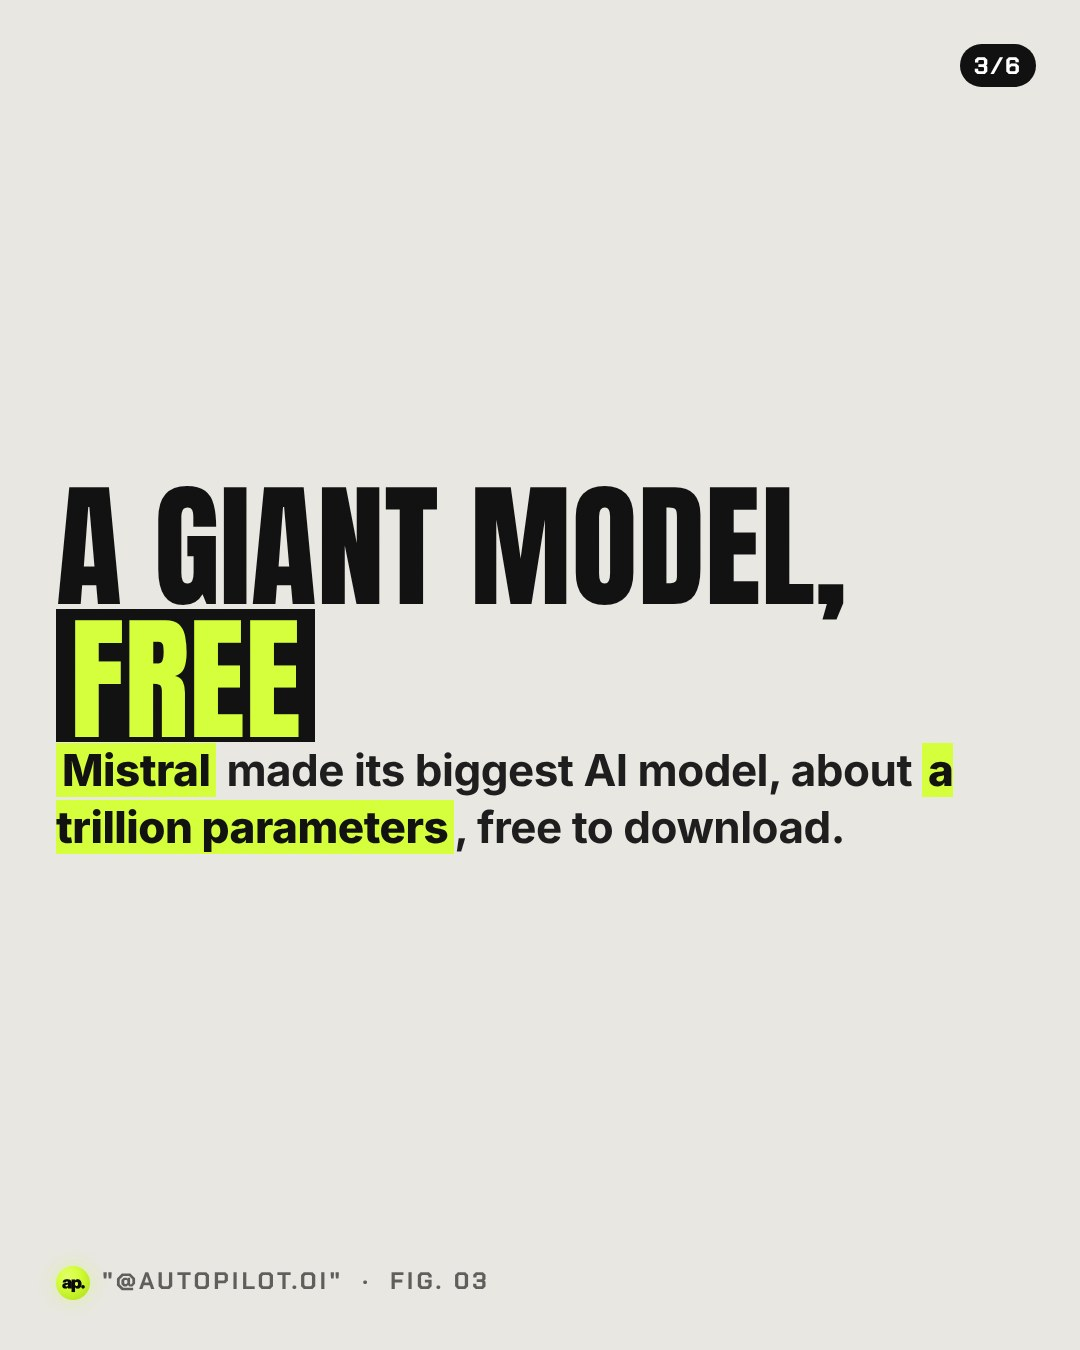
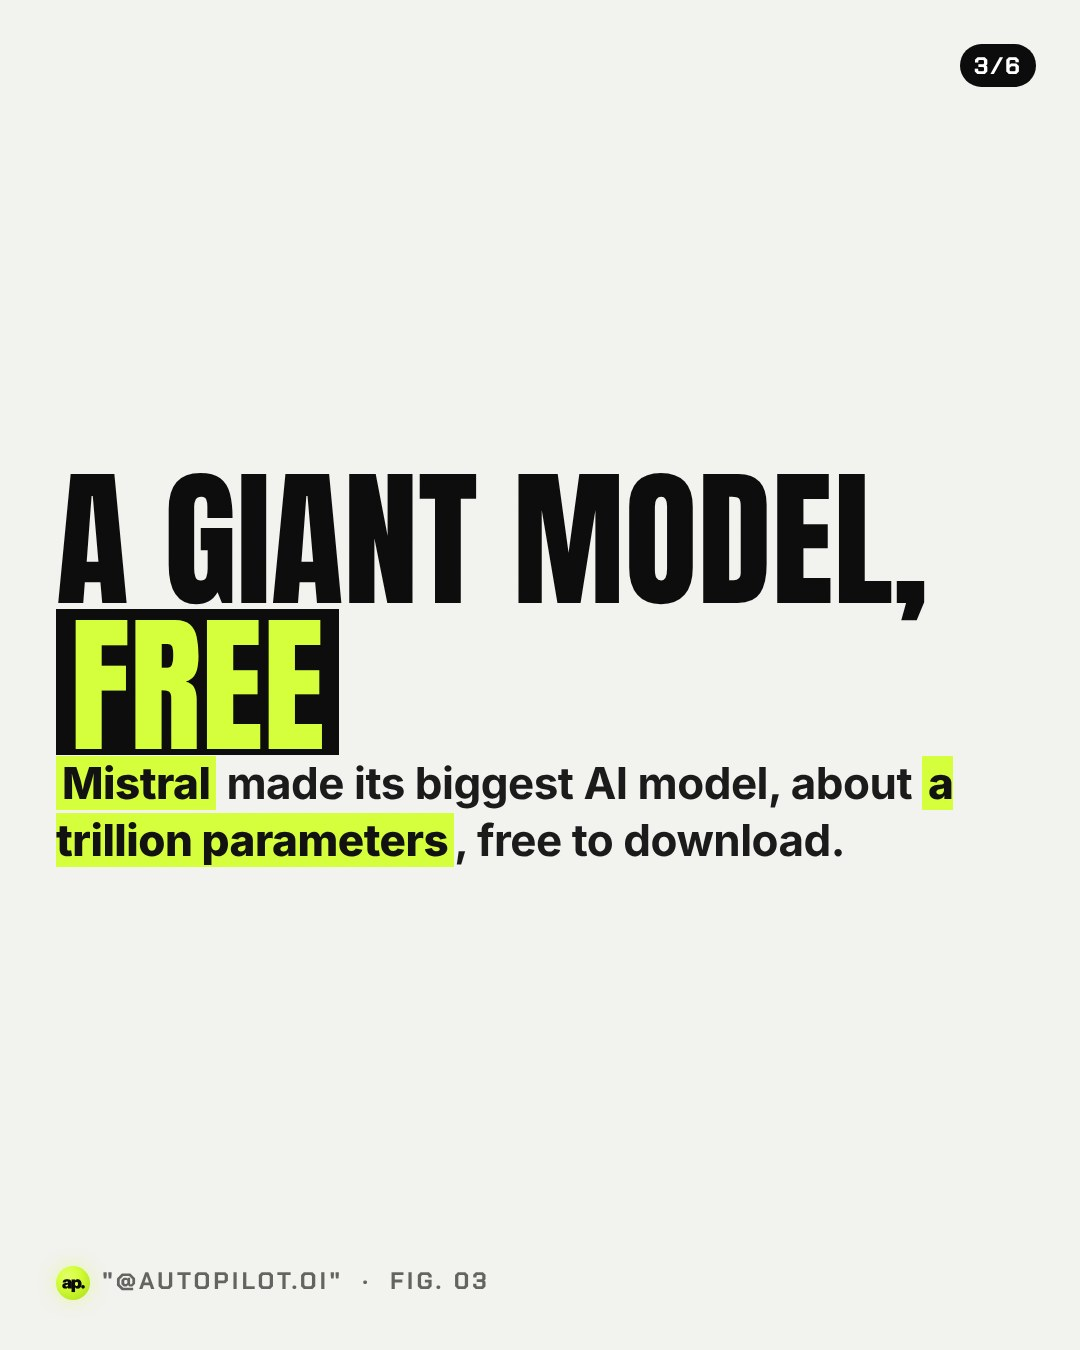
Carousels: free compositions (each cover its own design: lime poster, terminal, stamped card, contents bands) and per post inside themes (dark, light, lime)
Claude-Session: https://claude.ai/code/session_01LKQNuEnmvMjGabLVVX6Xfj

Changed region(s): [[0.0306, 0.3422, 0.8861, 0.6533]]

diff --git a/tools/carousel/style.css b/tools/carousel/style.css
@@ -144,3 +144,44 @@
 .grain{opacity:.1}
 .paper{color:#262626}.paper .mast,.paper .bar2{opacity:.7}.big1{color:#202020!important}.cols{opacity:.6}
 .paper.light .big1{color:#cfcec7!important}.paper.light .cols{opacity:.45}.paper.light .mast{opacity:.5}
+
+/* ---------- free compositions (cover_html): each post designs its own cover ---------- */
+.fx{position:absolute}
+.A{font-family:A;text-transform:uppercase;line-height:.88}
+.Ii{font-family:I;font-weight:800;letter-spacing:-.5px}
+.Cc{font-family:C;font-weight:700;letter-spacing:3px;text-transform:uppercase}
+.Mm{font-family:M}
+.bg-lime{background:radial-gradient(120% 90% at 30% 20%,#F0FF9A 0,#D4FF3A 45%,#C2F21F 100%)!important;color:#0c0c0c}
+.bg-white{background:#f2f2ee!important;color:#0c0c0c}
+.bg-black{background:#0a0a0a!important;color:#f4f4f4}
+.chip{display:inline-block;background:#0c0c0c;color:#D4FF3A;font:700 24px C;letter-spacing:4px;padding:10px 18px}
+.chip.l{background:#D4FF3A;color:#0c0c0c;text-shadow:none}
+.term{background:#0f120c;border:2px solid #2a3320;border-radius:22px;box-shadow:0 40px 80px #000a,0 0 70px #D4FF3A22;overflow:hidden}
+.term .bar{height:54px;background:#161b11;display:flex;align-items:center;gap:12px;padding:0 22px}
+.term .bar i{width:16px;height:16px;border-radius:50%;background:#333}
+.term .bar i:nth-child(3){background:#D4FF3A}
+.term pre{font:400 30px/1.55 M;color:#c9d6bd;padding:26px 30px;margin:0;white-space:pre-wrap}
+.term pre b{color:#D4FF3A;font-weight:400}.term pre u{color:#ff5a4f;text-decoration:none}
+.bcard{width:640px;height:400px;border-radius:30px;background:linear-gradient(135deg,#1b1b1b,#050505);box-shadow:0 40px 80px #0005;color:#eee;padding:44px 46px}
+.bcard .chipx{width:86px;height:64px;border-radius:12px;background:linear-gradient(135deg,#e9ff9a,#b9e81c)}
+.bcard .num{font:400 44px/1 M;letter-spacing:4px;margin-top:62px}
+.bcard .nm{font:700 22px C;letter-spacing:4px;margin-top:22px;color:#aaa}
+.stampL{border:12px solid #D4FF3A;color:#D4FF3A;font:400 150px/1 A;padding:10px 34px 0;background:#0c0c0cdd;box-shadow:0 0 60px #D4FF3A66}
+.band{position:absolute;left:0;right:0;display:flex;align-items:center;gap:34px;padding:0 54px}
+.band .n{font:400 150px/1 A;color:#D4FF3A}
+.band .h{font:400 70px/.92 A;text-transform:uppercase}
+.band .d{font:700 26px/1.3 I;color:#bbb;margin-top:10px;letter-spacing:-.3px}
+.rule{height:3px;background:currentColor;opacity:.9}
+/* per post inner themes */
+.th-lime .s:not(#s1){background:radial-gradient(120% 90% at 30% 20%,#F0FF9A 0,#D4FF3A 45%,#C2F21F 100%);color:#0c0c0c}
+.th-lime .s:not(#s1) .b{color:#111}.th-lime .s:not(#s1) .b b{background:#0c0c0c;color:#D4FF3A;padding:0 6px}
+.th-lime .s:not(#s1) .t .l{background:#0c0c0c;color:#D4FF3A;padding:8px 14px 0;display:inline-block;line-height:.92;text-shadow:none}
+.th-lime .s:not(#s1) .side,.th-lime .s:not(#s1) .shade{display:none}
+.th-lime .s:not(#s1) .handle{color:#0009}.th-lime .s:not(#s1) .pg{background:#0c0c0c;color:#D4FF3A}
+.th-light .s:not(#s1){background:#f2f2ee;color:#0c0c0c}
+.th-light .s:not(#s1) .b{color:#1a1a1a}.th-light .s:not(#s1) .b b{background:#D4FF3A;color:#111;padding:0 6px}
+.th-light .s:not(#s1) .t .l{background:#0c0c0c;color:#D4FF3A;padding:8px 14px 0;display:inline-block;line-height:.92;text-shadow:none}
+.th-light .s:not(#s1) .side,.th-light .s:not(#s1) .shade{display:none}
+.th-light .s:not(#s1) .handle{color:#0009}.th-light .s:not(#s1) .pg{background:#0c0c0c;color:#fff}
+.th-light .s:not(#s1) .in,.th-lime .s:not(#s1) .in{width:968px}
+.th-light .s:not(#s1) .t,.th-lime .s:not(#s1) .t{font-size:150px}

diff --git a/tools/carousel/build.py b/tools/carousel/build.py
@@ -126,6 +126,10 @@ def chevrons(x, y, n_gray=2, n_lime=3):
 
 
 def cover(p, n):
+    if p.get("cover_html"):
+        cls = p.get("cover_bg", "bg-black")
+        return (f'<div class="s {cls}" id="s1">{p["cover_html"]}{GRAIN if p.get("grain", True) else ""}'
+                f'<img class="aplogo" src="/docs/logo.png"><div class="pg">1/{n}</div></div>')
     lay = p.get("layout", "stack")
     if lay == "stack":
         return cover_stack(p, n)
@@ -214,7 +218,7 @@ def build(cid):
     p = json.load(open(os.path.join(ROOT, "tools", "carousel", "posts", cid + ".json")))
     n = len(p["slides"]) + 2
     slides = [cover(p, n)] + [inner(p, i + 2, n, s) for i, s in enumerate(p["slides"])] + [last(p, n, n)]
-    page = f"<!doctype html><html><head><meta charset=utf-8><style>{CSS}</style></head><body>{''.join(slides)}{FIT}</body></html>"
+    page = f"<!doctype html><html><head><meta charset=utf-8><style>{CSS}</style></head><body class=\"th-{p.get('theme', 'dark')}\">{''.join(slides)}{FIT}</body></html>"
     hp = os.path.join(ROOT, "tools", "carousel", f"_{cid}.html"); open(hp, "w").write(page)
     out = os.path.join(ROOT, "docs", "media", "car", cid); os.makedirs(out, exist_ok=True)
     js = f"""const {{chromium}}=require('playwright');(async()=>{{const b=await chromium.launch();const p=await b.newPage({{viewport:{{width:1080,height:1350}}}});
